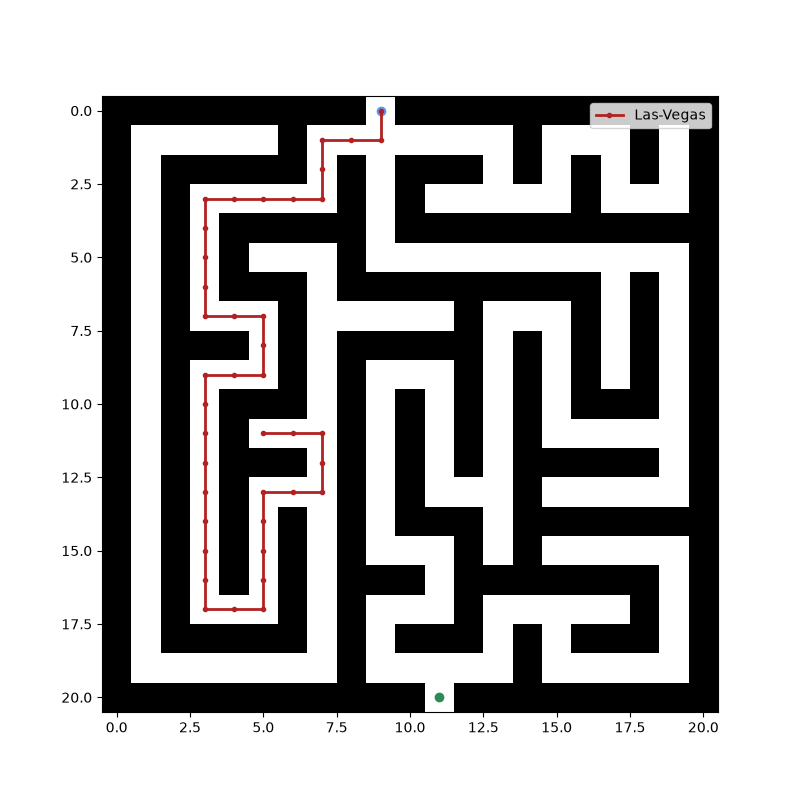
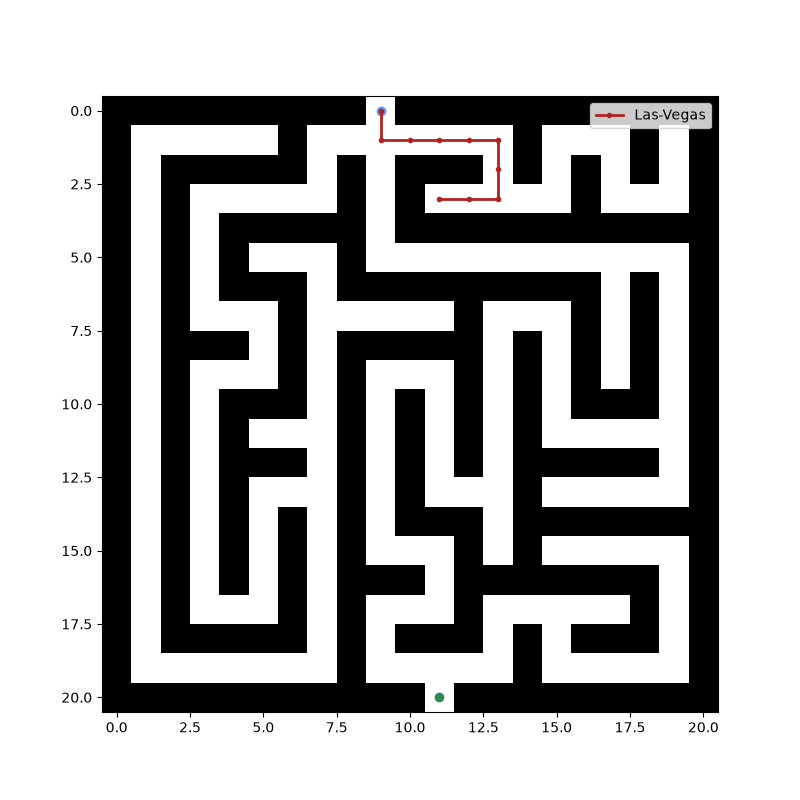
Commit 2: Kruskal's Algorithm
- Implemented working Kruskal animation for mst_1.
- route history tracking was added to provide user insight into how the shortest path was constructed.

diff --git a/q2_minspanning_tree/kruskal.py b/q2_minspanning_tree/kruskal.py
@@ -1,0 +1,118 @@
+# Author: Surinder Matharu
+# Date Last Modified: 09-Nov-2026
+# Purpose: 
+
+import os
+import networkx as nx
+import matplotlib.pyplot as plt
+from matplotlib.animation import FuncAnimation 
+
+def MyMinimumSpannigTree(Graph) -> nx.Graph:
+    mst = nx.Graph()
+    mst.add_nodes_from(Graph.nodes())
+    route_history = [mst.copy()]
+
+    parent = {node: node for node in Graph.nodes}
+    rank = {node: 0 for node in Graph.nodes}
+
+    def find (node):
+        if parent[node] != node:
+            parent[node] = find(parent[node])
+        return parent[node]
+
+    for i, j, data in sorted (
+        Graph.edges(data=True), key=lambda edge: edge[2].get('weight', 1)
+    ):
+        r_i, r_j = find(i), find (j)
+        if r_i != r_j:
+            mst.add_edge(i, j, **data)
+            route_history.append(mst.copy())
+            if rank[r_i] < rank[r_j]:
+                parent[r_i] = r_j
+            elif rank[r_i] > rank[r_j]:
+                parent[r_j] = r_i 
+            else:
+                parent[r_j] = r_i
+                rank[r_i] += 1
+
+    return route_history
+
+if __name__ == '__main__':
+    def exampleMST1():
+    # Produce empty graph
+        mst_1 = nx.Graph()
+        mst_1.add_nodes_from(['A','B','C','D', 'E', 'F'])
+        mst_1.add_weighted_edges_from([
+            ('A','B', 2), ('A','D', 3), ('A','E', 4), 
+            ('B','C', 1), ('B','E', 2), ('B','F', 5),
+            ('C','F', 6), ('C','E', 4),
+            ('D','B', 3), ('D','E', 4), 
+            ('E','F', 7)])
+
+        return mst_1
+    #pass # return networkx graph
+   
+    # def exampleMST2():
+    #     # Produce empty graph
+    #     mst_2 = nx.Graph()
+    #     mst_2.add_nodes_from(['A','B','C','D', 'E'])
+    #     mst_2.add_weighted_edges_from([
+    #         ('A','B', 1), ('A','D', 4), ('A','E', 3), 
+    #         ('B','C', 5), ('B','E', 6), 
+    #         ('C','E', 2),
+    #         ('D','B', 2), ('D','E', 7),])
+            
+    #     return mst_2    
+
+    # def exampleMST3():
+    #     mst_3 = nx.Graph()
+    #     mst_3.add_nodes_from(['A','B','C','D', 'E'])
+    #     mst_3.add_weighted_edges_from([
+    #         ('A','B', 3), ('A','D',4), 
+    #         ('B','C', 5), ('B','D',1), ('B','E',8),
+    #         ('D','C', 7), ('D','E',6),
+    #         ('C','E', 2)])
+        
+    #     return mst_3    
+
+    mst_flow = MyMinimumSpannigTree(exampleMST1())  # Only call one at a time
+    print('Edges present in the MST:')
+    for edge in mst_flow[-1].edges(data=True):
+        print(edge)
+
+    fig, ax = plt.subplots(figsize=(8,8))
+    graph = exampleMST1()
+    mst_1 = mst_flow[-1]
+    pos_1 = nx.circular_layout(graph)
+
+    # Animate over the edges of the graph
+    mst_edges = list(mst_1.edges())
+    edge_labels = nx.get_edge_attributes(mst_1, 'weight')
+
+    def update(frame):
+        ax.clear()
+        nx.draw(mst_1, pos_1, with_labels=True, ax=ax, node_color='lightgray', edge_color='lightgray', node_size=1000)
+        nx.draw_networkx_edge_labels(mst_1, pos_1, ax=ax, edge_labels=edge_labels, bbox=dict(boxstyle='round,pad=0.3', ec='gray', fc='white', alpha=0.8))
+
+        current_mst = mst_flow[frame]
+        current_edge_labels =nx.get_edge_attributes(current_mst, 'weight')
+
+        nx.draw(mst_1, pos_1, with_labels=True, ax=ax, node_color='lightgray', edge_color='lightgray', node_size=500)
+        nx.draw_networkx_edge_labels(current_mst, pos_1, ax=ax, edge_labels=current_edge_labels)
+        ax.set_title(f'Kruskal {frame + 1} of {len(mst_flow)}')
+
+    animation = FuncAnimation(
+        fig,
+        update,
+        frames=len(mst_flow),
+        interval=1000,
+        repeat=False,
+    )
+    # Animation frames are saved as a GIF within the kruskal_graphs folder.
+    dir_save = os.path.join("kruskal_graphs")
+    os.makedirs(dir_save, exist_ok=True) 
+    filename = os.path.join(dir_save, "kruskal_mst.gif")
+    print(f"Saving {len(mst_flow)} frames as GIF may take a while. Please be patient...")
+    animation.save(filename, writer='pillow', fps=20)
+    print(f'Kruskal Minimum Spanning Tree saved to: {filename}')
+    plt.show()

diff --git a/q1_maze/maze_search.py b/q1_maze/maze_search.py
@@ -225,6 +225,7 @@ elif approach == '2':
     fig.savefig(filename)
     print(f'Las Vegas route saved to {filename}')
     plt.show()
+    plt.close()
 
 else:
     raise ValueError("Invalid input. Please enter '1' for DFS or '2' for Las Vegas approach.")
